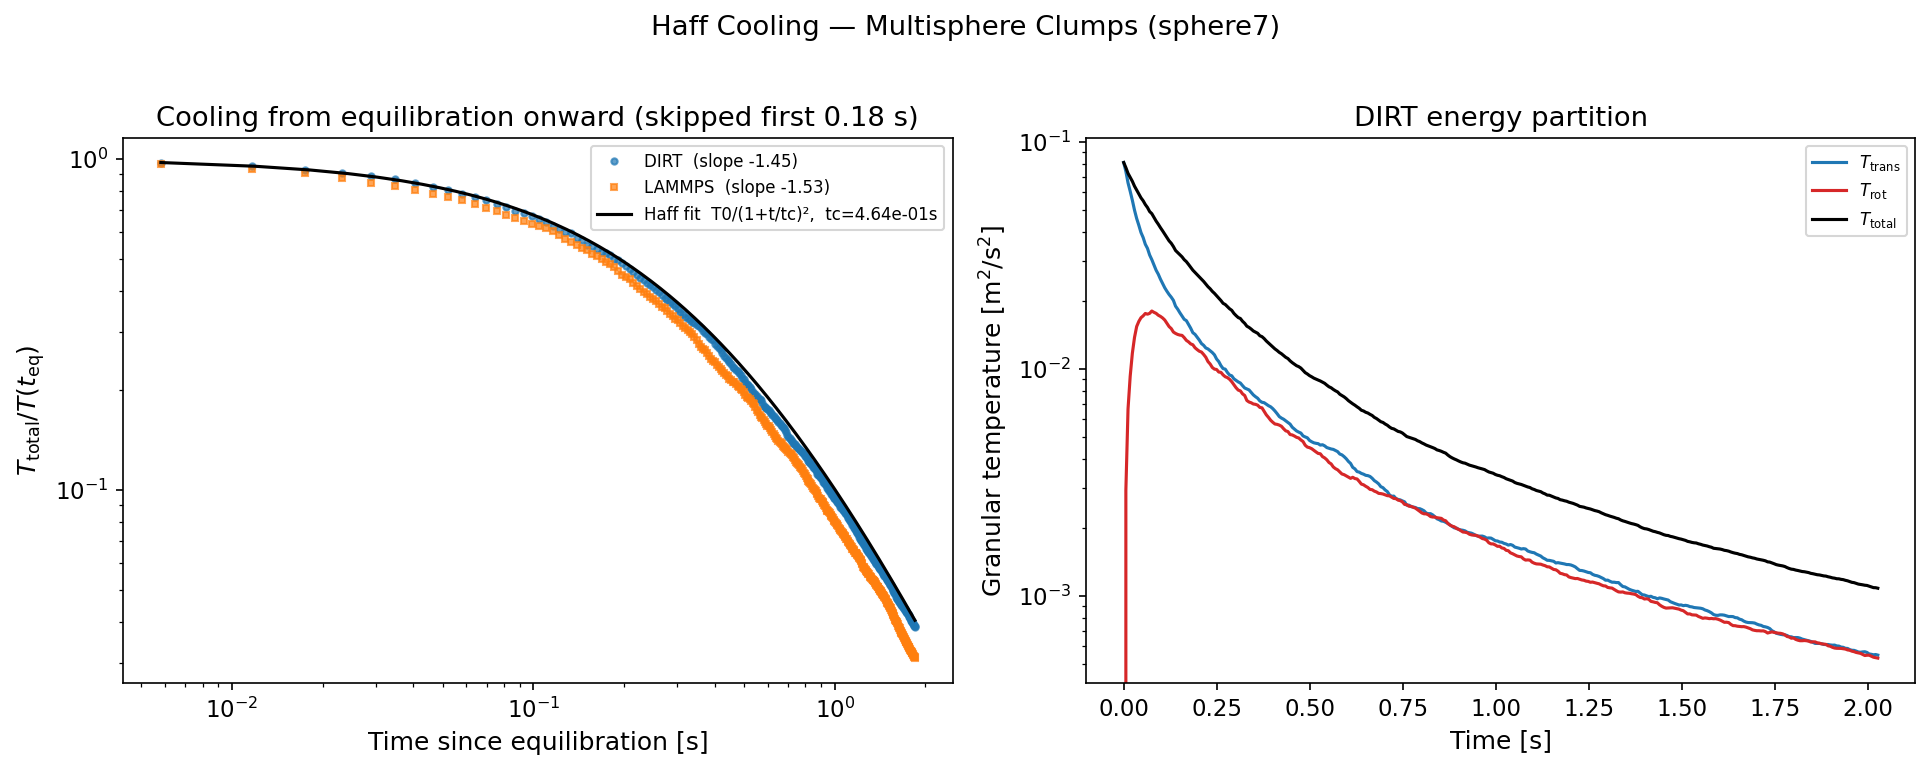
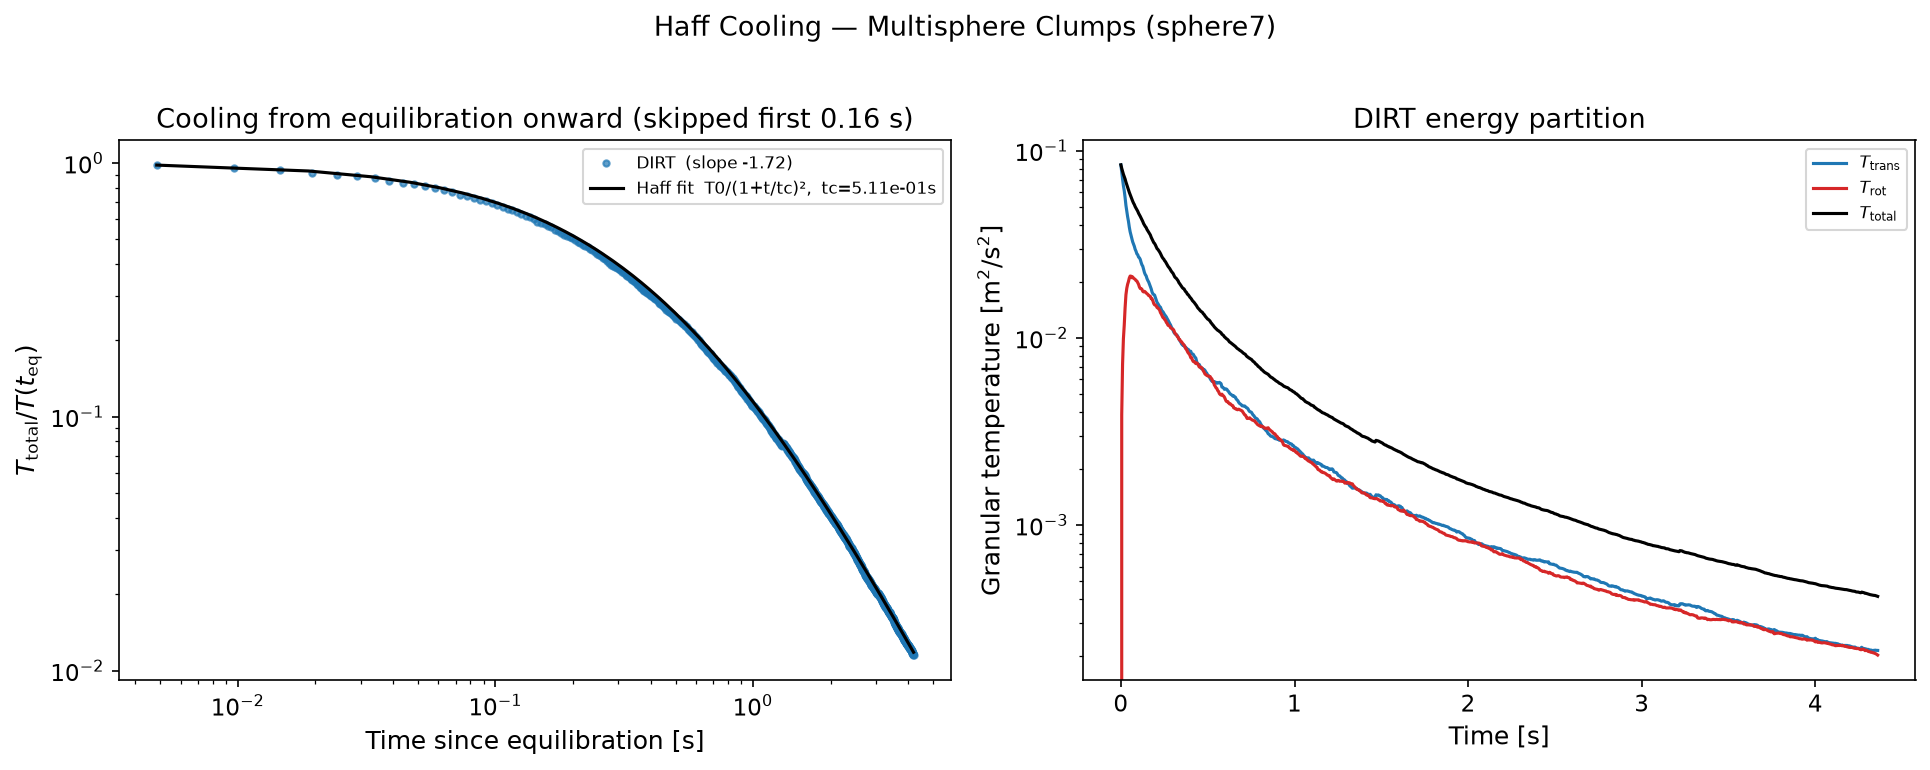
bench_clump_haff_cooling: reach 6/6 by extending run to ~12 cooling times
The late-time log-log slope check was the lone failure (5/6): at 700k steps
the gas cooled only to t/tc=4.7, where -2*(t/tc)/(1+t/tc) gives a fitted
second-half slope of -1.527 — just outside the [-2.3, -1.6] band. The Haff
law itself was already excellent (1/sqrt(T) linear, R^2=0.9998), so the fix
is purely to let the run reach a higher t/tc where the log-log slope bends
toward the asymptotic -2.

Extend steps 700k -> 1.8M (~12 cooling times). New result: 6/6 PASS,
slope=-1.807 at t/tc=12.4, R^2=0.9999. Bumped sweep.py STEPS to keep the
LAMMPS cross-check run length matched, refreshed the plot, and updated the
stale t/tc~8 / slope~-1.6 comment.

diff --git a/examples/bench_clump_haff_cooling/sweep.py b/examples/bench_clump_haff_cooling/sweep.py
@@ -65,7 +65,7 @@ POISSON = 0.3
 RESTITUTION = 0.9
 FRICTION = 0.3
 SIGMA = 0.5
-STEPS = 700_000
+STEPS = 1_800_000
 OUTPUT_EVERY = 2000
 KB = 1.380649e-23
 
@@ -383,8 +383,8 @@ def graph():
     ax.loglog(tf, 1.0 / (1 + tf / tcd) ** 2, "-", color="black", lw=1.5,
               label=f"Haff fit  T0/(1+t/tc)²,  tc={tcd:.2e}s")
     # The Haff fit IS the -2 law (it bends to slope -2 only at t >> tc); this run
-    # reaches t/tc ~ 8, so the data sits at ~-1.6 and a literal -2 line would
-    # diverge from it. The fit lying on the data is the validation.
+    # reaches t/tc ~ 12, so the late-time data sits at ~-1.8 and approaches -2 as
+    # t/tc grows. The fit lying on the data is the validation.
     ax.set_xlabel("Time since equilibration [s]")
     ax.set_ylabel(r"$T_\mathrm{total}/T(t_\mathrm{eq})$")
     ax.set_title(f"Cooling from equilibration onward (skipped first {t_eq:.2f} s)")
